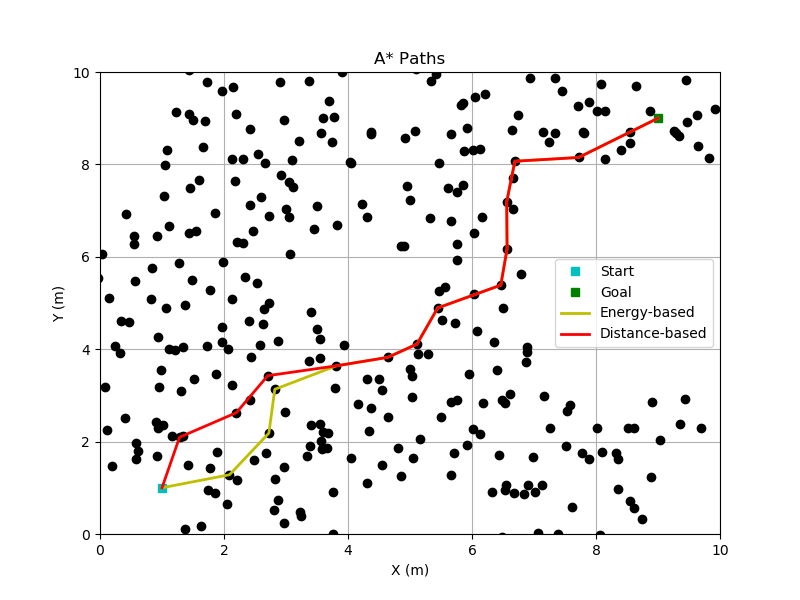
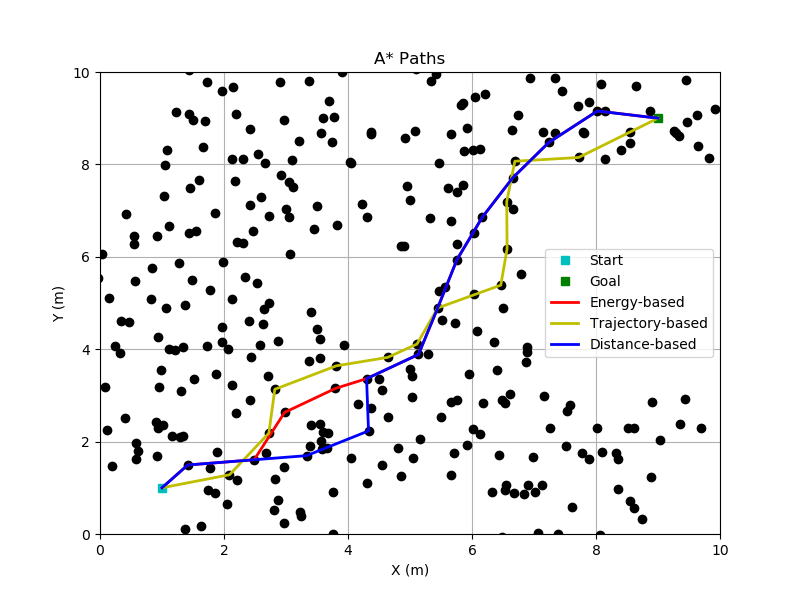
running, needs review

diff --git a/path_planner.py b/path_planner.py
@@ -10,21 +10,62 @@ from controller_base import PathPlanner
 
 
 class AStarPathPlanner(PathPlanner):
-    def __init__(self, env:Environment):
+    def __init__(self, env:Environment, trajectory_inputs=None):
         super().__init__(env)
         self.bounds = (env.xmin, env.xmax, env.ymin, env.ymax)
         self.holds = env.holds
         self.range = env.spacing + env.grasp_radius
         self.start_idx = env.start_idx
         self.goal_idx = env.goal_idx
-        self.heuristics = []
+        self.trajectory_inputs = trajectory_inputs
+        # normalize trajectory optimization grid
+        traj_x_min, traj_x_max, traj_y_min, traj_y_max = [0.0, 0.0, 2.0, 2.0]
+        trajectory_inputs[:, 0:2] = (trajectory_inputs[:, 0:2] - [traj_x_min, traj_y_min]) / [
+            (traj_x_max - traj_x_min),
+            (traj_y_max - traj_y_min)
+        ]
+        trajectory_inputs[:, 2:4] = (trajectory_inputs[:, 2:4] - [traj_x_min, traj_y_min]) / [
+            (traj_x_max - traj_x_min),
+            (traj_y_max - traj_y_min)
+        ]
 
     def l2_heuristic(self, curr_idx):
         curr_pos = self.holds[curr_idx].position
         goal_pos = self.holds[self.goal_idx].position
         return np.linalg.norm(np.array(curr_pos) - np.array(goal_pos))
+    
+    def get_closest_trajectory_input(self, prev_idx, next_idx):
+        # normalize hold pos within env
+        prev_pos = np.array(self.holds[prev_idx].position)
+        prev_pos_scaled = (prev_pos[0] - [self.bounds[0], self.bounds[2]]) / [
+            (self.bounds[1] - self.bounds[0]),
+            (self.bounds[3] - self.bounds[2])            
+        ]
+        next_pos = np.array(self.holds[next_idx].position)
+        next_pos_scaled = (next_pos[0] - [self.bounds[0], self.bounds[2]]) / [
+            (self.bounds[1] - self.bounds[0]),
+            (self.bounds[3] - self.bounds[2])            
+        ]
+        prev_next_vec = np.array(next_pos_scaled) - np.array(prev_pos_scaled)
+        prev_next_mag = np.linalg.norm(prev_next_vec)
+        prev_next_unit = prev_next_vec / prev_next_mag if prev_next_mag > 0 else np.zeros_like(prev_next_vec)
+        start_end_units = self.trajectory_inputs[:, 2:4] - self.trajectory_inputs[:, 0:2]
+        start_end_mags = np.linalg.norm(start_end_units, axis=1)
+        # orientation similarity
+        cos_similarities = np.dot(start_end_units, prev_next_unit)
+        max_cos_similarity = np.max(cos_similarities)
+        closest_orientation_rows = self.trajectory_inputs[cos_similarities == max_cos_similarity]
+        # distance similarity
+        start_end_mags_closest = start_end_mags[cos_similarities == max_cos_similarity]
+        closest_distances = np.abs(start_end_mags_closest - prev_next_mag)
+        closest_pairs = closest_orientation_rows[np.argmin(closest_distances)]
+        # minimum positive input
+        valid_closest_pairs = closest_pairs[closest_pairs[:, 7] >= 0]
+        if valid_closest_pairs.size == 0:
+            return None
+        return np.min(valid_closest_pairs[:, 7])
 
-    def edge_cost(self, prev_idx, curr_idx, next_idx, energy=True):
+    def edge_cost(self, prev_idx, curr_idx, next_idx, energy=True, trajectories=False):
         # simplified torque-based model of simple pendulum
         g = 9.81
         m = 10.0
@@ -38,6 +79,8 @@ class AStarPathPlanner(PathPlanner):
         L_next = np.linalg.norm(next_pos - curr_pos)
         if not energy:
             return L_next
+        if trajectories:
+            return self.get_closest_trajectory_input(prev_idx, next_idx)
         if L_prev <= 0:
             L_prev = 0.05
         if L_next <= 0:
@@ -65,7 +108,7 @@ class AStarPathPlanner(PathPlanner):
                     neighbors.append(idx)
         return neighbors
 
-    def calculate_path(self, energy=True):
+    def calculate_path(self, energy=True, trajectories=False):
         """
         Calculate path using A*
         """
@@ -89,7 +132,7 @@ class AStarPathPlanner(PathPlanner):
             for neighbor_idx in self.get_neighbors(curr_idx):
                 if neighbor_idx in closed_set:
                     continue
-                new_g = g_costs[curr_idx] + self.edge_cost(curr_idx, neighbor_idx, energy)
+                new_g = g_costs[curr_idx] + self.edge_cost(curr_idx, neighbor_idx, energy, trajectories)
                 if neighbor_idx not in g_costs or new_g < g_costs[neighbor_idx]:
                     g_costs[neighbor_idx] = new_g
                     f = self.l2_heuristic(neighbor_idx)
@@ -116,7 +159,7 @@ class AStarPathPlanner(PathPlanner):
                  cm = 'ko'
                  label = None
             ax.plot(x, y, cm, label=label)
-        colors = ['y', 'r']
+        colors = ['r', 'y', 'b']
         for idx, (label, path) in enumerate(paths.items()):
             if path:
                 path_positions = [env.holds[idx].position for idx in path]
@@ -147,11 +190,14 @@ if __name__ == "__main__":
     # plot A* with different edge costs
     env = Environment()
     env.generate_static_random((0, 10, 0, 10), (1, 1), (9, 9), 500, 1, 0.99)
-    planner = AStarPathPlanner(env)
+    trajectory_inputs = np.genfromtxt("placeholder_input.csv", delimiter=',')
+    planner = AStarPathPlanner(env, trajectory_inputs)
     path_energy = planner.calculate_path()
+    path_trajectory = planner.calculate_path(trajectories=True)
     path_distance = planner.calculate_path(False)
     paths = {
         "Energy-based": path_energy,
+        "Trajectory-based": path_trajectory,
         "Distance-based": path_distance
     }
     file_path = "./env_plot/A_star_test.png"
